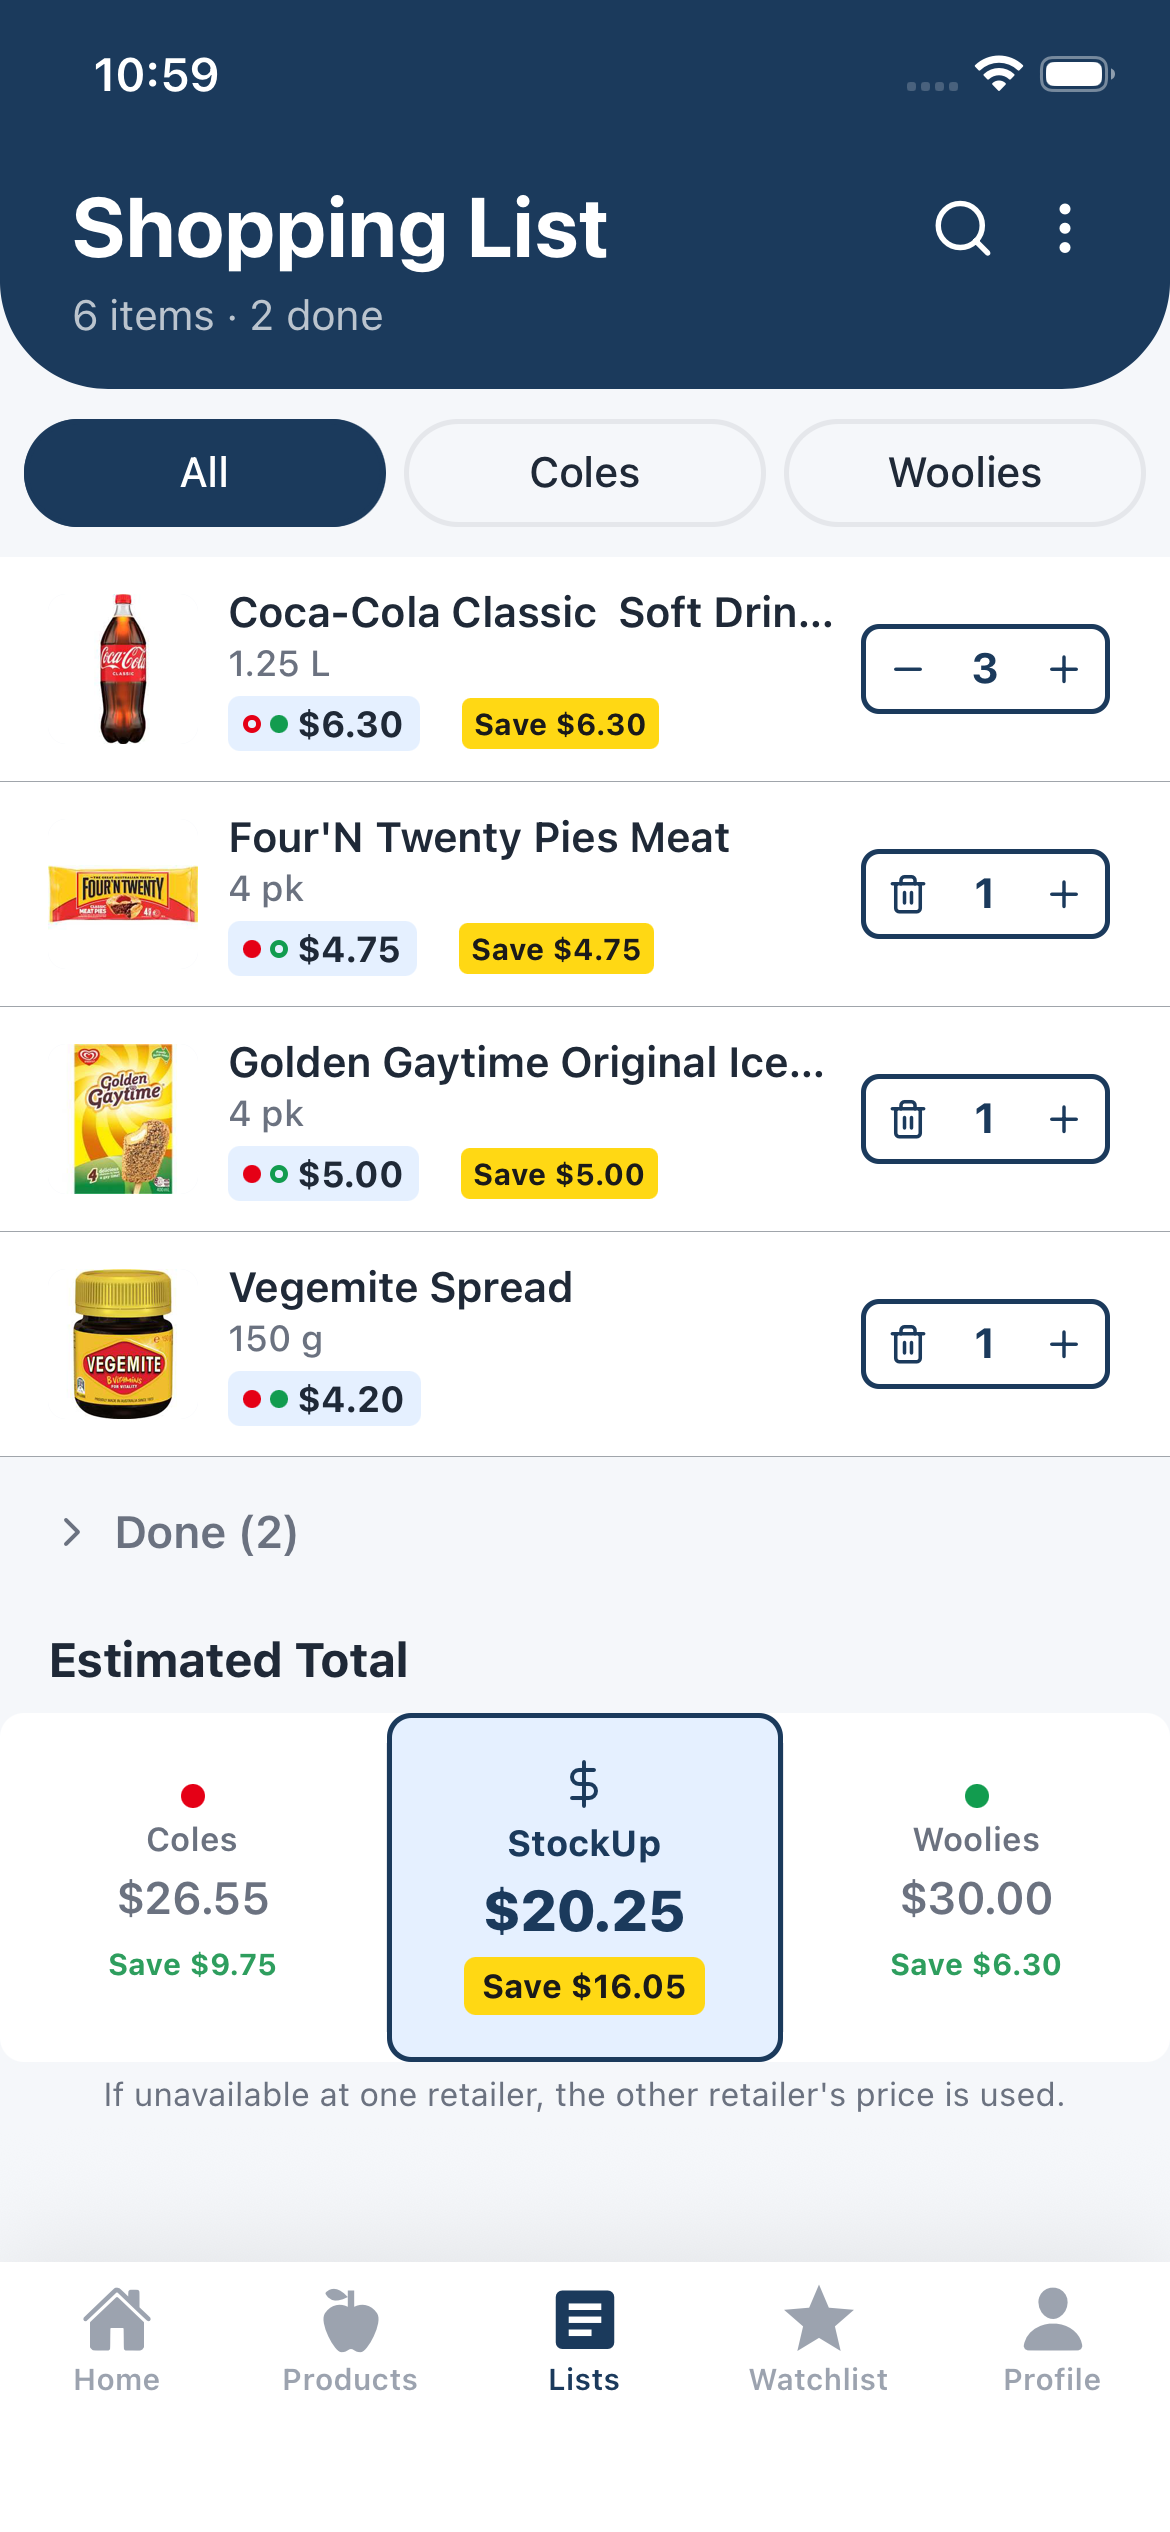
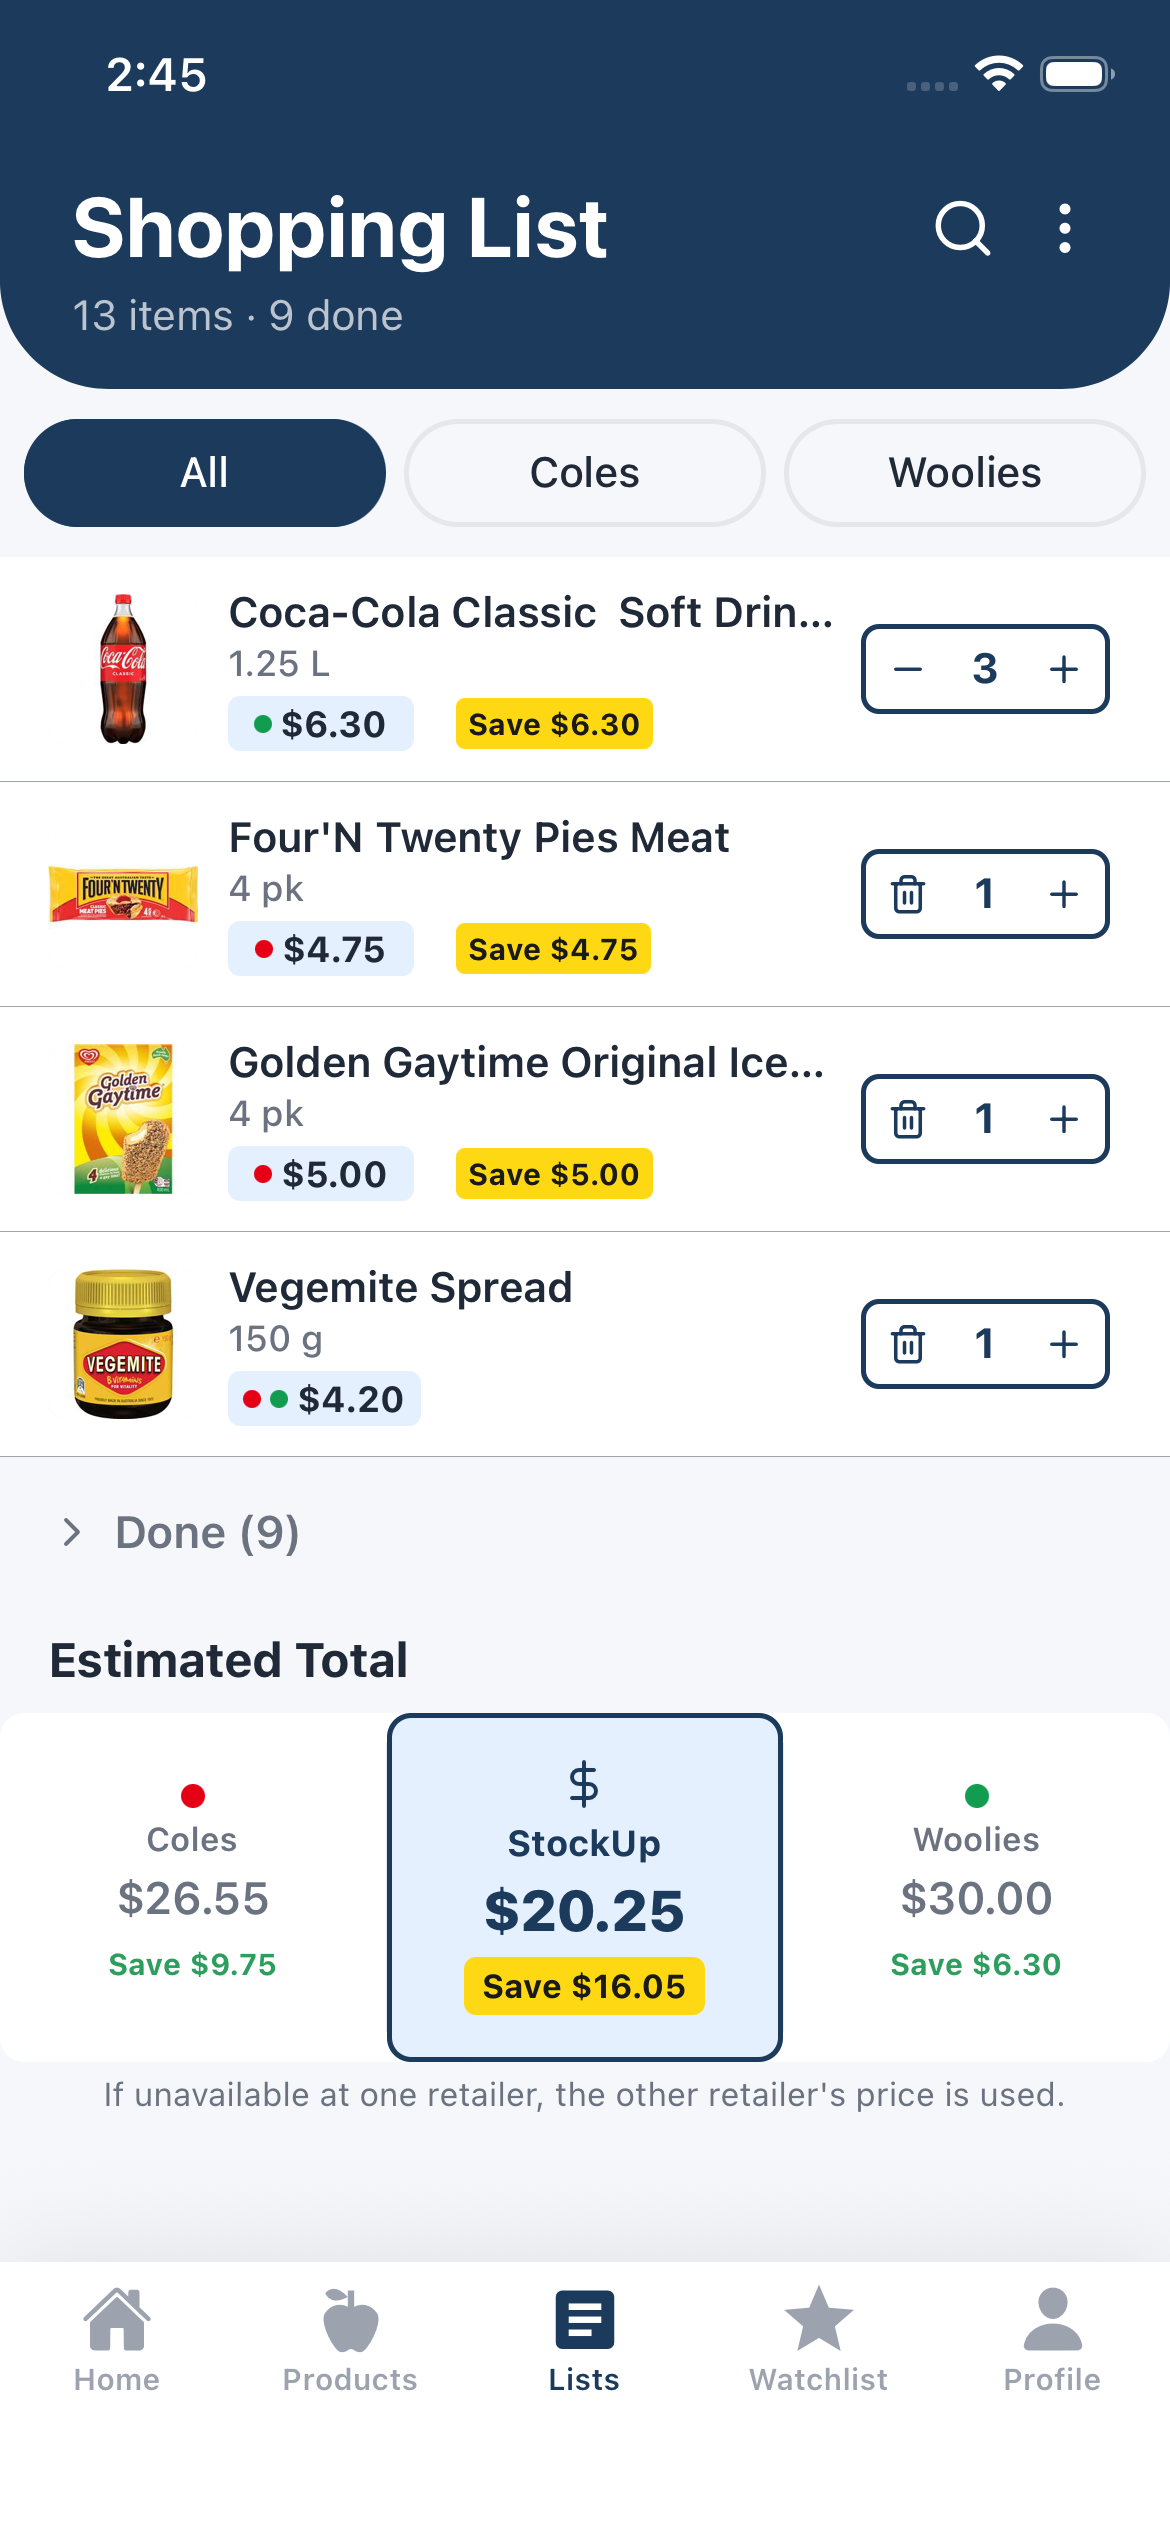
Update screenshots and add Google Play Store link
- Replace Watchlist and Shopping List screenshots with latest builds
- Add Google Play Store link (remove coming-soon greyed-out state)

diff --git a/index.html b/index.html
@@ -48,12 +48,9 @@
           <a href="https://apps.apple.com/au/app/stockup-grocery-prices/id6760887575" class="store-badge" aria-label="Download on the App Store">
             <img src="/assets/app-store-badge.png" alt="Download on the App Store" height="56">
           </a>
-          <div class="store-badge-wrapper">
-            <a href="#" class="store-badge store-badge-soon" aria-label="Google Play — Coming Soon">
-              <img src="/assets/google-play-badge.png" alt="Get it on Google Play" height="56">
-            </a>
-            <span class="coming-soon-label">Coming Soon</span>
-          </div>
+          <a href="https://play.google.com/store/apps/details?id=com.myxcha.StockUp" class="store-badge" aria-label="Get it on Google Play">
+            <img src="/assets/google-play-badge.png" alt="Get it on Google Play" height="56">
+          </a>
         </div>
       </div>
       <div class="hero-phone-wrapper animate-slide-up delay-2">
@@ -169,12 +166,9 @@
         <a href="https://apps.apple.com/au/app/stockup-grocery-prices/id6760887575" class="store-badge" aria-label="Download on the App Store">
           <img src="/assets/app-store-badge.png" alt="Download on the App Store" height="56">
         </a>
-        <div class="store-badge-wrapper">
-          <a href="#" class="store-badge store-badge-soon" aria-label="Google Play — Coming Soon">
-            <img src="/assets/google-play-badge.png" alt="Get it on Google Play" height="56">
-          </a>
-          <span class="coming-soon-label">Coming Soon</span>
-        </div>
+        <a href="https://play.google.com/store/apps/details?id=com.myxcha.StockUp" class="store-badge" aria-label="Get it on Google Play">
+          <img src="/assets/google-play-badge.png" alt="Get it on Google Play" height="56">
+        </a>
       </div>
     </div>
   </section>
